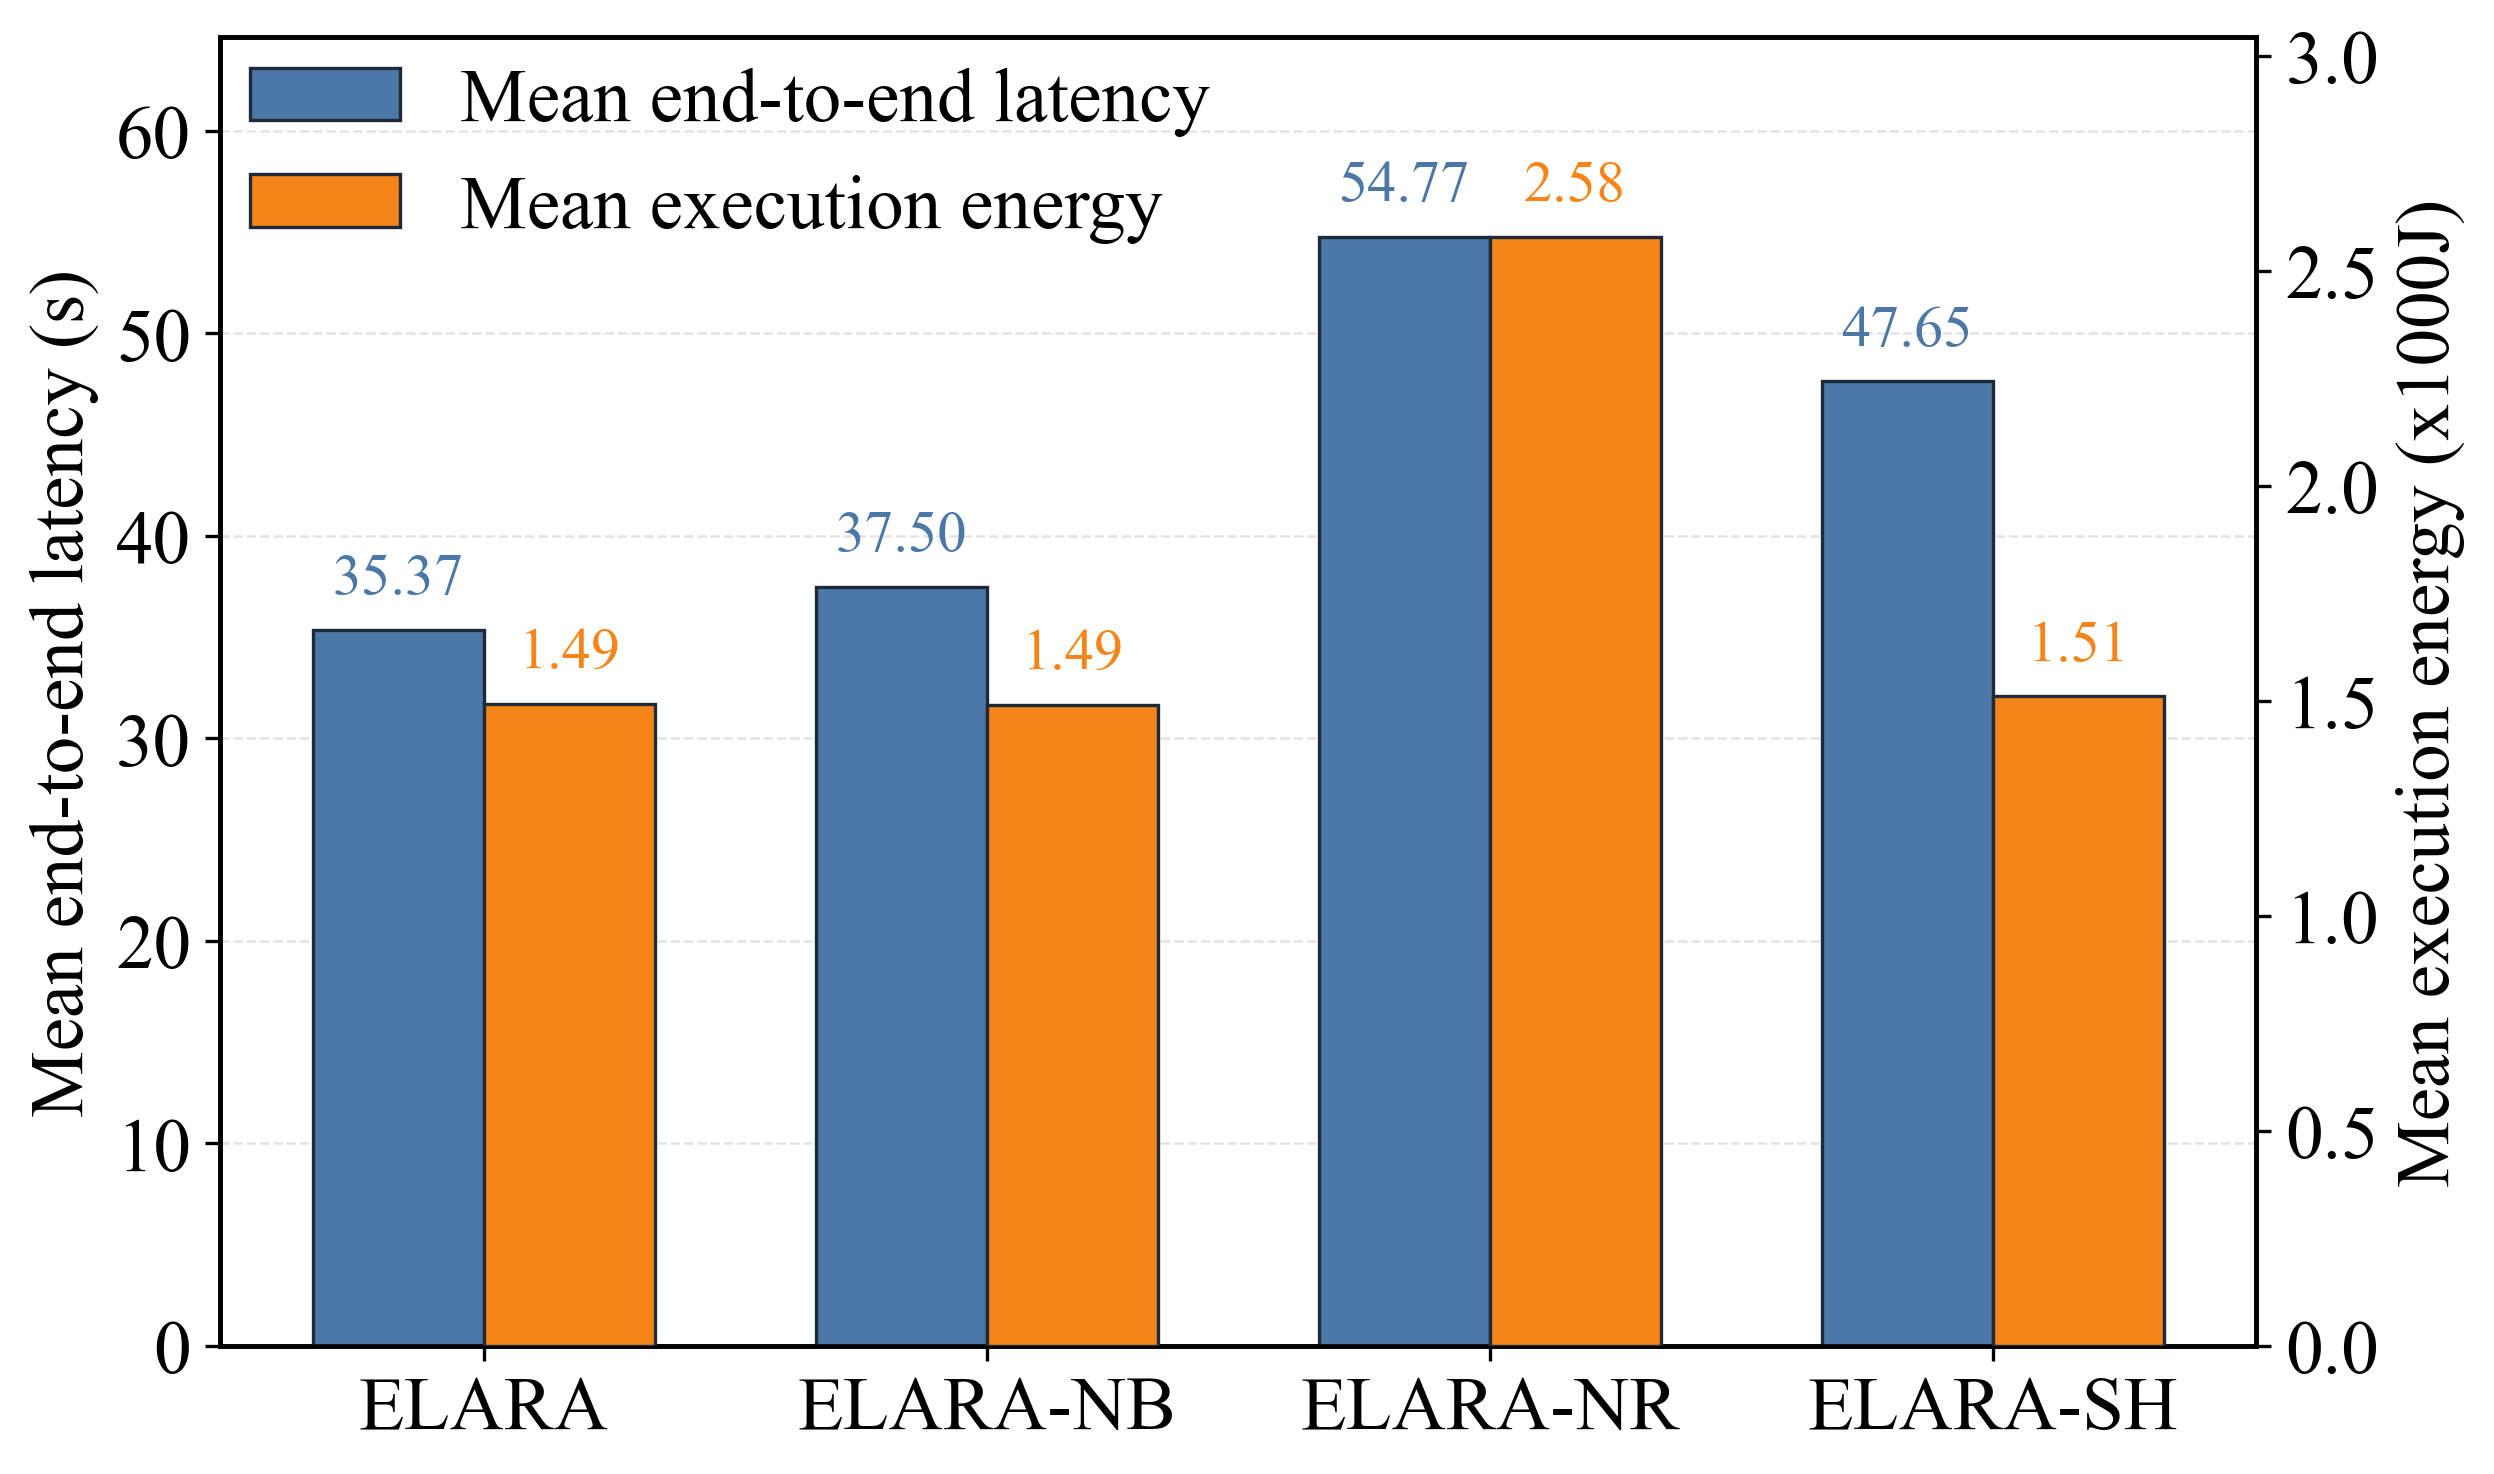
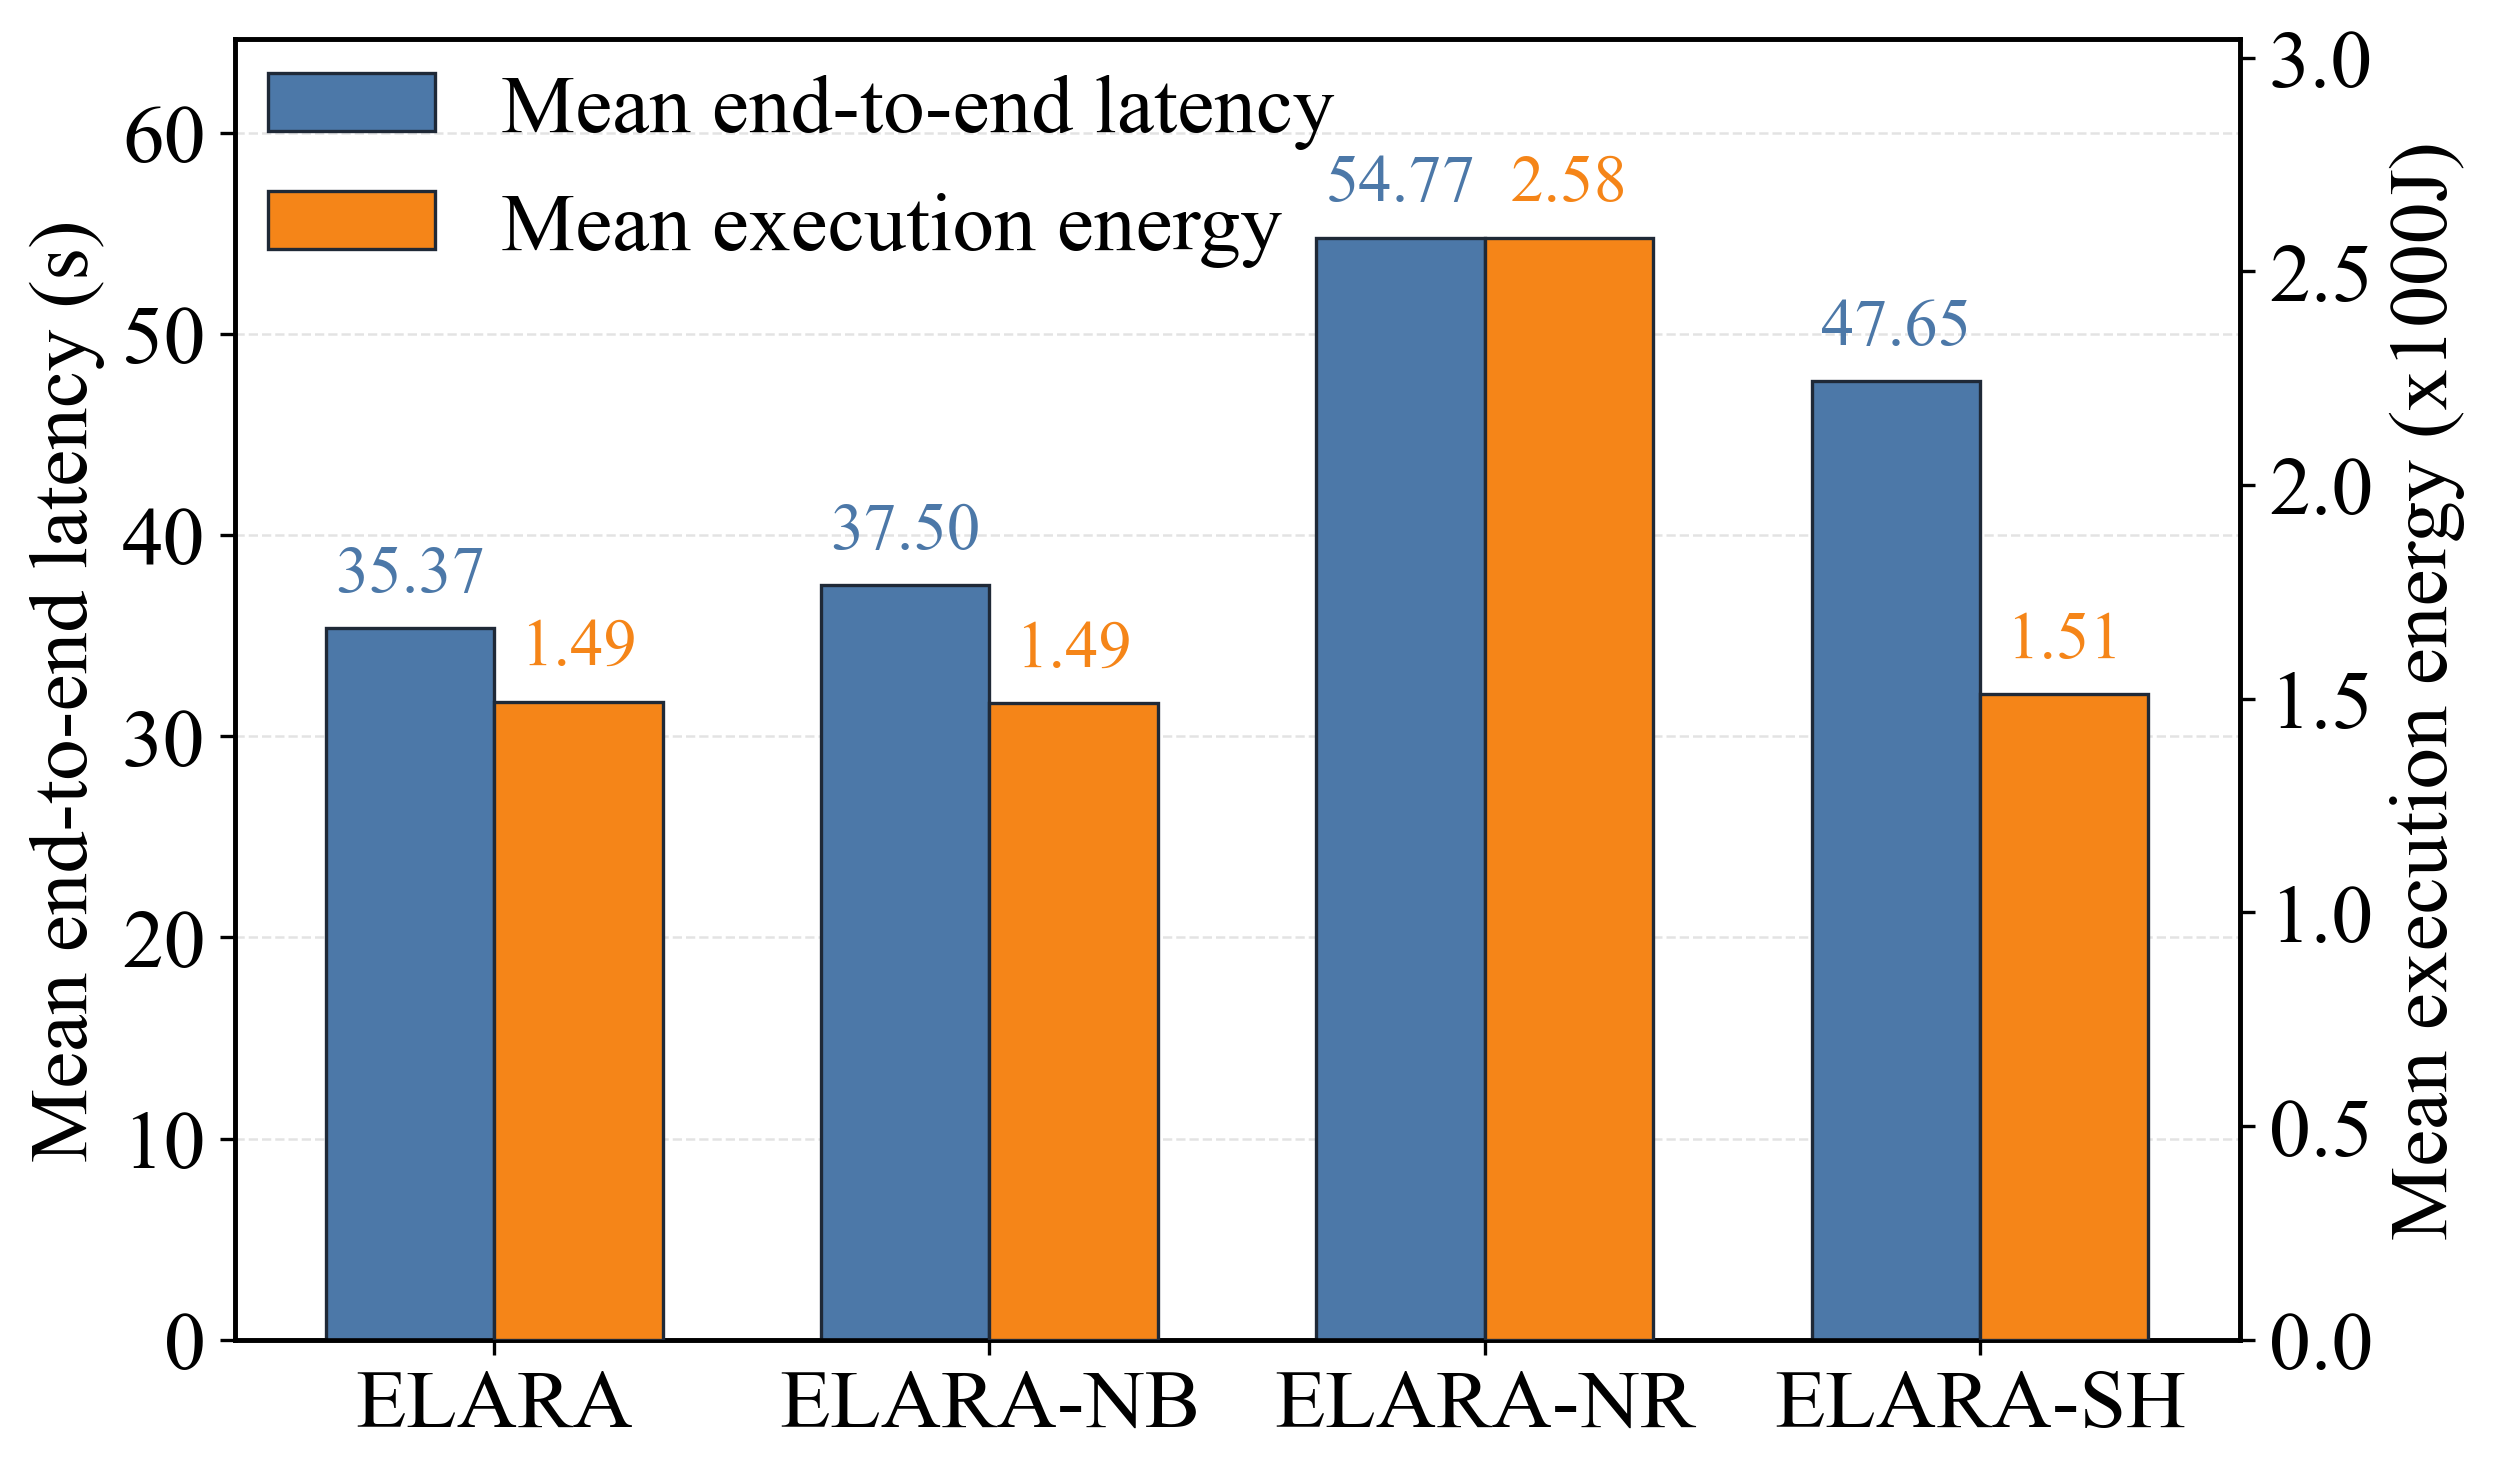
paper

diff --git a/MyPaper/main.tex b/MyPaper/main.tex
@@ -715,7 +715,7 @@ Algorithm~\ref{algo:elara_request} summarizes the online procedure of node selec
 \begin{algorithm}[t]
 \SetAlFnt{times}
 \SetAlgoLined
-\caption{ELARA Node Selection and Data Routing}
+\caption{Node Selection and Data Routing}
 \label{algo:elara_request}
 \SetKwInOut{Input}{Input}
 \SetKwInOut{Output}{Output}
@@ -779,11 +779,11 @@ The routing module also records  key information for each transfer, including de
 \begin{algorithm}[t]
 	\SetAlFnt{times}
 	\SetAlgoLined
-	\caption{ELARA Bandit-Based Service Deployment}
+	\caption{Bandit-Based Service Deployment}
 	\label{algo:elara_deploy}
 	\SetKwInOut{Input}{Input}
 	\SetKwInOut{Output}{Output}
-	\Input{Recent requests and execution traces, deployment $\mathbf{X}(t)$, pending redeployment actions, arm statistics}
+	\Input{Recent execution traces, deployment $\mathbf{X}(t)$, pending actions, arm statistics}
 	\Output{Updated deployment $\mathbf{X}(t+1)$}
 	\If{pending actions from the previous deployment round exist}{
 		Update their arm rewards using the execution quality in the current window\;
@@ -793,7 +793,7 @@ The routing module also records  key information for each transfer, including de
 	\For{each arm ranked by failure priority, service pressure, and UCB}{
 		Resolve the arm to concrete source and target satellites\;
 		\If{replica-count or storage constraint is violated}{continue\;}
-		Estimate service-image migration route, delay, energy, and risk cost\;
+		Estimate service-image migration cost\;
 		Compute estimated reward $\widehat R_a$\;
 		\If{$\widehat R_a$ exceeds safety margin}{
 			Apply add/remove/move operation to $\mathbf{X}(t)$\;
@@ -807,9 +807,8 @@ The routing module also records  key information for each transfer, including de
 \subsection{Bandit-Based Service Deployment}
 
 The replica redeployment module operates at a slower timescale than per-request service routing.
-Every $I_{\text{dep}}$ time slots, ELARA observes the execution traces accumulated in the latest deployment window and decides whether the current replica layout should be adjusted.
-This design avoids reacting to transient request fluctuations while still allowing the deployment to follow persistent changes in service popularity, onboard queueing, and ISL connectivity.
-For each microservice $m$ invoked during the recent window, ELARA computes a service-pressure score
+Every $I_{\text{dep}}$ time slots, ELARA summarizes recent execution traces and updates the replica layout only when the expected benefit justifies the migration overhead.
+For each invoked microservice $m$, it computes a service-pressure score
 \begin{equation}
 \psi_m =
 n_m
@@ -820,29 +819,25 @@ n_m
 +\omega_5U_m,
 \end{equation}
 where $n_m$ is the invocation count, $\bar T_m^{\text{route}}$ is the average communication delay before executing $m$, $\bar T_m^{\text{wait}}$ is the average computing waiting time, $F_m$ is the number of failures associated with $m$, $T_{m,95}^{\text{stage}}$ is the 95-th percentile stage latency, and $U_m$ measures the utilization imbalance among replicas of $m$.
-The normalization constant $T_0$ prevents delay-related terms from dominating the count-based terms.
-Only the top-$K_{\text{ms}}$ services with the largest pressure scores are considered in one deployment round, which concentrates the redeployment budget on services that are most likely to affect end-to-end performance.
+The top-$K_{\text{ms}}$ services are then considered for redeployment, which restricts the decision space to the most influential service bottlenecks.
 
-Directly treating every satellite-level migration as an independent arm would create a prohibitively large and unstable action space.
-ELARA therefore defines bandit arms at the orbital-plane level:
+To avoid learning over all satellite-level placements, ELARA defines bandit arms at the orbital-plane level:
 \begin{equation}
 	a=(o,m,p_s,p_t), \quad
 	o\in\{\text{add},\text{remove},\text{move},\text{no-op}\},
 \end{equation}
 where $o$ is the redeployment operation, $p_s$ is the source orbital plane for removal or migration, and $p_t$ is the target orbital plane for addition or migration.
-The arm abstraction captures the coarse-grained direction of redeployment, while the final satellite-level source and target are resolved only after the arm is selected.
-For removal or migration, ELARA preferentially selects source replicas that have been repeatedly involved in failed executions or are located in poorly connected neighborhoods.
-For addition or migration, the target satellite is chosen from feasible nodes in $p_t$ with sufficient storage capacity, light service load, and relatively favorable local link rates.
-This two-level construction preserves the expressiveness needed for adaptive placement, but avoids learning a separate arm for every service-satellite pair.
+After an arm is selected, ELARA resolves it to concrete source and target satellites by favoring problematic source replicas and feasible target nodes with sufficient storage, light service load, and favorable local connectivity.
+Thus, the bandit learns coarse redeployment directions while the final placement remains topology- and resource-aware.
 
-Each candidate arm is evaluated by its estimated net benefit before being applied.
-The migration cost is computed by routing the service image over the time-varying ISL topology, using the same latency- and energy-aware routing model as ordinary service data transfers:
+Each candidate arm is evaluated by its estimated net benefit.
+Since service images must be transferred over ISLs, the migration cost is computed using the same latency- and energy-aware routing model:
 \begin{equation}
 C_a=\alpha T_a^{\text{mg}}+\beta\widetilde{E}_a^{\text{mg}}
 +\lambda N_a^{\text{cross}}+\rho\Gamma_a+\omega_z z_m+\omega_sT_m^{\text{start}}.
 \end{equation}
 Here $T_a^{\text{mg}}$, $\widetilde{E}_a^{\text{mg}}$, $N_a^{\text{cross}}$, and $\Gamma_a$ denote the migration delay, normalized migration energy, slot-crossing count, and route-failure risk, respectively, while $z_m$ and $T_m^{\text{start}}$ represent the image size and startup delay of microservice $m$.
-The estimated arm reward is then defined as
+The estimated reward is
 \begin{equation}
 \widehat R_a
 =\mathrm{Saving}(a)+\mathrm{Relief}(a)-C_a-\mathrm{Penalty}(a),
@@ -850,18 +845,15 @@ The estimated arm reward is then defined as
 where $\mathrm{Saving}(a)$ is derived from the pressure score of the affected service, $\mathrm{Relief}(a)$ rewards the removal or relocation of replicas that have caused failures, and $\mathrm{Penalty}(a)$ discourages placing replicas near satellites with low-rate neighboring links.
 An action is applied only if $\widehat R_a$ exceeds a safety margin and the resulting deployment satisfies the replica-count and storage constraints.
 
-The remaining question is how to balance profitable historical redeployment patterns with unexplored alternatives.
-ELARA maintains empirical statistics for every arm and ranks candidate arms using the Upper Confidence Bound (UCB) score
+ELARA balances exploitation and exploration by ranking arms with the Upper Confidence Bound (UCB) score
 \begin{equation}
 \mathrm{UCB}(a)=\bar R_a+c\sqrt{\frac{\ln N}{N_a}},
 \end{equation}
 where $\bar R_a$ is the empirical reward of arm $a$, $N_a$ is the number of times arm $a$ has been evaluated, $N$ is the total number of arm evaluations, and $c$ controls exploration.
-Unvisited arms are assigned the largest priority, encouraging initial exploration.
-Among visited arms, the first term exploits historically beneficial redeployment patterns, whereas the second term preserves exploration for uncertain actions.
+Unvisited arms are explored first, while visited arms are selected according to both empirical benefit and uncertainty.
 
-ELARA updates arm statistics in two complementary ways.
-First, when an arm is evaluated in the current deployment round, its estimated reward $\widehat R_a$ is recorded as immediate placement feedback.
-Second, after the subsequent deployment window has been executed, ELARA assigns an execution-feedback reward to the actions applied in the previous round:
+Arm statistics are updated using both immediate and delayed feedback.
+The estimated reward $\widehat R_a$ is recorded when an arm is evaluated, and the actions actually applied in one deployment round receive an execution-feedback reward after the next window:
 \begin{equation}
 R_a^{\text{exec}}
 =
@@ -871,7 +863,7 @@ R_a^{\text{exec}}
 -\kappa C_a,
 \end{equation}
 where $\eta_{\text{succ}}$ is the request success ratio in the following window, $\bar T^{\text{e2e}}$ and $\bar E$ are the average end-to-end latency and energy consumption of successfully processed requests, and $\kappa C_a$ penalizes costly redeployments.
-This delayed feedback closes the loop between redeployment and subsequent request execution: arms that consistently improve success ratio, latency, and energy receive higher empirical rewards, while expensive or ineffective migrations are gradually suppressed.
+This delayed update suppresses costly or ineffective migrations and reinforces redeployment patterns that improve subsequent service execution.
 
 Algorithm~\ref{algo:elara_deploy} summarizes this deployment procedure.
 
@@ -943,13 +935,30 @@ End-to-end latency includes both data routing and onboard computation, and energ
 Slot crossings measure how often service-stage data transmission spans multiple topology slots, thereby reflecting the ability of a method to cope with dynamic ISL changes.
 
 \subsection{Overall Performance}
-\begin{figure}[!t]
-\centering
-\includegraphics[width=0.98\linewidth]{elara_exp/elara_comparison.png}
-\caption{Overall performance comparison of ELARA and representative baselines.}
-\label{fig:overall_comparison}
-\vspace{-0.2cm}
-\end{figure}
+
+\begin{figure*}[!ht]
+	\centering
+	\begin{minipage}[!b]{0.32\textwidth}
+		\centering
+		\includegraphics[width=0.98\linewidth]{elara_exp/elara_train.pdf}
+		\caption{Training loss and reward curves.}
+		\label{fig:elara_train}
+	\end{minipage}
+	\begin{minipage}[!b]{0.32\textwidth}
+		\centering
+		\includegraphics[width=0.98\linewidth]{elara_exp/elara_comparison.pdf}
+		\caption{Performance over all baselines.}
+		\label{fig:elara_comparison}
+	\end{minipage}
+	\begin{minipage}[!b]{0.32\textwidth}
+		\centering
+		\includegraphics[width=0.98\linewidth]{elara_exp/elara_ablation.pdf}
+		\caption{Ablation study of ELARA.}
+		\label{fig:elara_ablation}
+	\end{minipage}
+	\vspace{-0.4cm}
+\end{figure*}
+
 
 Fig.~\ref{fig:overall_comparison} compares ELARA with the representative baselines.
 ELARA achieves the lowest average end-to-end latency, i.e., 35.37 s, while SECO, SC-NFV, and SP-Routing incur 36.98 s, 42.72 s, and 49.34 s, respectively.
@@ -961,14 +970,7 @@ Its average energy consumption is 1493.4 J, which is comparable to SECO but subs
 Specifically, ELARA reduces energy consumption by 16.6\% over SC-NFV and 20.7\% over SP-Routing.
 This confirms that optimizing only routing pressure or service-chain feasibility is insufficient in SCPNs, where the selected serving satellite determines both the subsequent communication path and the computation cost.
 
-\subsection{Ablation Study}
-\begin{figure}[!t]
-\centering
-\includegraphics[width=0.98\linewidth]{elara_exp/elara_ablation.png}
-\caption{Ablation study of ELARA components.}
-\label{fig:ablation_study}
-\vspace{-0.2cm}
-\end{figure}
+
 
 Fig.~\ref{fig:ablation_study} studies the contribution of each ELARA component.
 Removing adaptive redeployment increases the average latency from 35.37 s to 37.50 s.

diff --git a/Simulation/pics/plot_elara_paper_figures.py b/Simulation/pics/plot_elara_paper_figures.py
@@ -31,16 +31,16 @@ COMPARISON_ABLATIONS = ("ELARA", "SECO", "SC-NFV", "SP-Routing")
 ABLATION_ABLATIONS = ("ELARA", "ELARA-NB", "ELARA-NR", "ELARA-SH")
 
 FONT_FAMILY = "Times New Roman"
-BASE_FONT_SIZE = 18
-AXIS_LABEL_FONT_SIZE = 18
-TICK_LABEL_FONT_SIZE = 18
-LEGEND_FONT_SIZE = 18
+BASE_FONT_SIZE = 20
+AXIS_LABEL_FONT_SIZE = 20
+TICK_LABEL_FONT_SIZE = 20
+LEGEND_FONT_SIZE = 20
 TITLE_FONT_SIZE = 13
 AXIS_LINE_WIDTH = 1.1
 BAR_EDGE_LINE_WIDTH = 0.8
 LINE_WIDTH = 2.2
 SHADE_ALPHA = 0.18
-BAR_VALUE_FONT_SIZE = 14
+BAR_VALUE_FONT_SIZE = 16
 
 REWARD_COLOR = "#1f77b4"
 LOSS_COLOR = "#d95f02"
